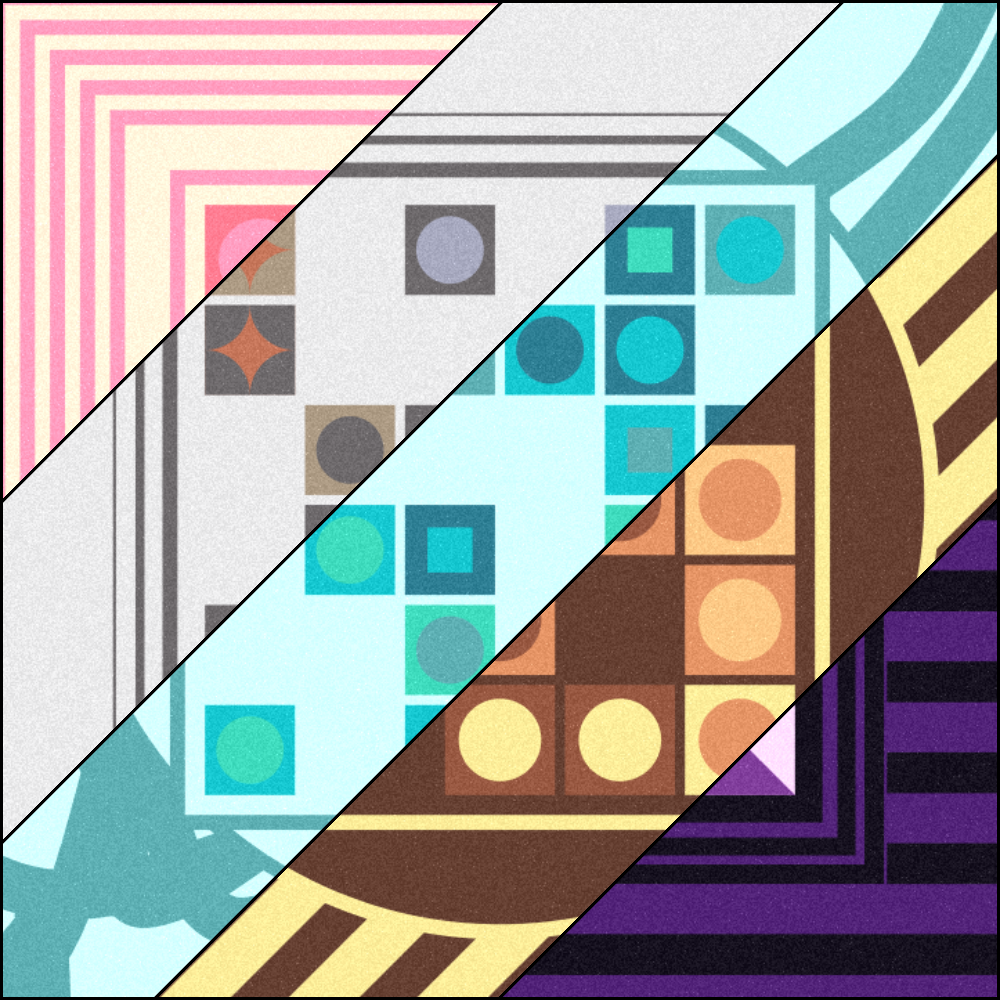
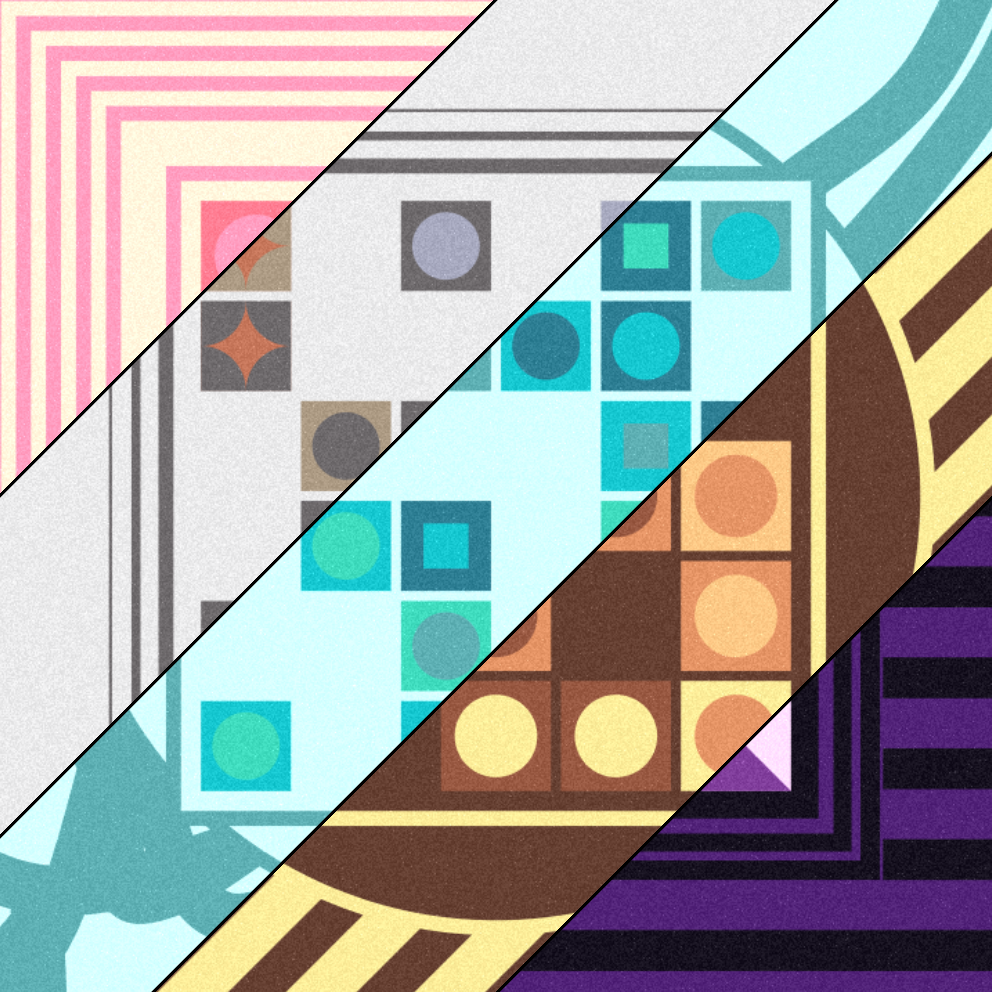
tusk update

diff --git a/_posts/2022-4-2-tusk.md b/_posts/2022-4-2-tusk.md
@@ -1,7 +1,7 @@
 ---
 layout: post
 title: Installation at TUSK Mini
-image: tusk.jpg
+image: tusk.png
 categories: installation artwork
 ---
 
